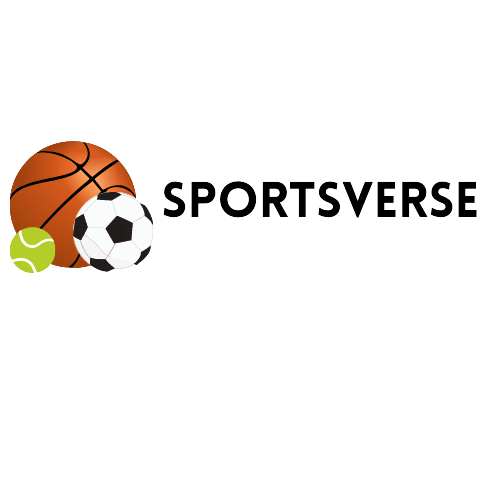
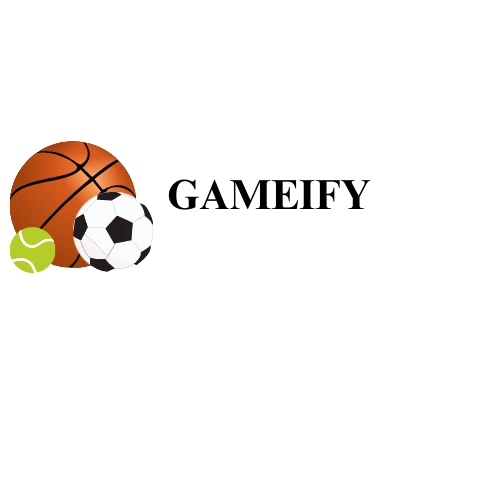
added files

Changed region(s): [[0.33, 0.36, 0.96, 0.45]]

diff --git a/User/navbar/navbar.html b/User/navbar/navbar.html
@@ -7,7 +7,8 @@
 <body>
     <nav>
         <input id="nav-toggle" type="checkbox">
-        <div class="logo"> <img src="SportsVerse-removebg-preview.png" alt=""></div>
+        <div class="logo"> <img src="GAMEIFY.jpg
+            " alt=""></div>
         <ul class="links">
             <li><a href="#home">Home</a></li>
             <li><a href="#about">Sports</a></li>

diff --git a/User/navbar/navbar2.css b/User/navbar/navbar2.css
@@ -31,8 +31,10 @@ nav .logo {
 }
 
 nav .logo img{
-    padding-top: 8%;
+    padding-top: 5%;
+	padding-bottom: 5%;
     width: 200px;
+	height: 150px;
 }
 
 nav .links {
